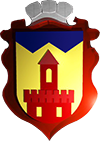
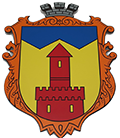
Змінено висоту шапки

diff --git a/style.css b/style.css
@@ -109,6 +109,7 @@ ul {
 nav {
   background-color: var(--jonquil);
   padding: 0 20px;
+  box-shadow: 0 5px 10px rgba(0, 0, 0, 0.3);;
 }
 
 nav .nav-wrapper {
@@ -120,7 +121,7 @@ nav .nav-wrapper {
 }
 
 nav .logo-container{
-  max-height: 120px;
+  max-height: 80px;
   max-width: 400px;
   display: flex;
   flex-direction: row;
@@ -136,7 +137,7 @@ nav .logo-container{
   align-items: center;
 }
 .logo img{
-  height: 75%;
+  height: 100%;
   object-fit: contain;
 }
 .logo span{
@@ -146,6 +147,13 @@ nav .logo-container{
 }
 
 @media (max-width: 1024px){
+  nav .logo-container{
+    max-height: 55px;
+    max-width: 150px;
+  }
+  nav .logo{
+    padding: 0;
+  }
   .logo span{
     visibility: collapse;
   }

diff --git a/index.js b/index.js
@@ -333,7 +333,7 @@ function showBook() {
 
    function booksGrid(){
     let things = document.querySelectorAll('.book, .books');
-    
+    console.log('ok')
     things.forEach((thing) => {
       thing.classList.toggle('grid');
     })

diff --git a/book_catalog.php b/book_catalog.php
@@ -4,10 +4,10 @@
     <div class="add-filters">
       <span onclick="showFilters()" class="material-symbols-rounded filter-button"> filter_alt</span>
       <a href="add_book.php" class="filter-button"><span class="material-symbols-rounded">add </span>Книга</a>
-      <span class="book-view filter-button">
-        <input type="checkbox" onchange="booksGrid()"/>
+      <label class="book-view filter-button">
+        <input type="checkbox" onclick="booksGrid()"/>
         <i id="viewIcon" class="fa-regular fa-eye"></i>
-      </span>
+      </label>
       <div class="selected-categories-container">
         <!-- <h2>Selected Categories</h2> -->
         <div class="selected-categories"></div>
